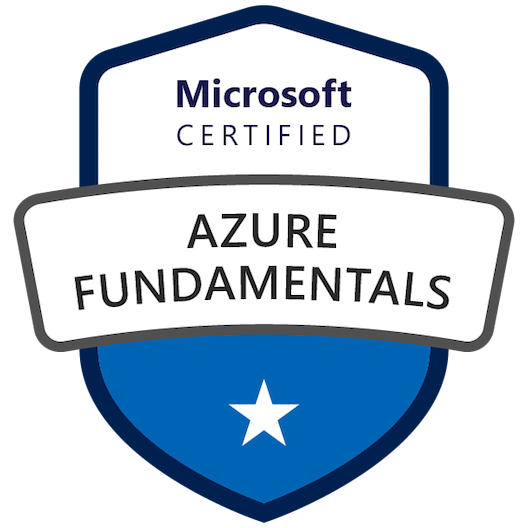
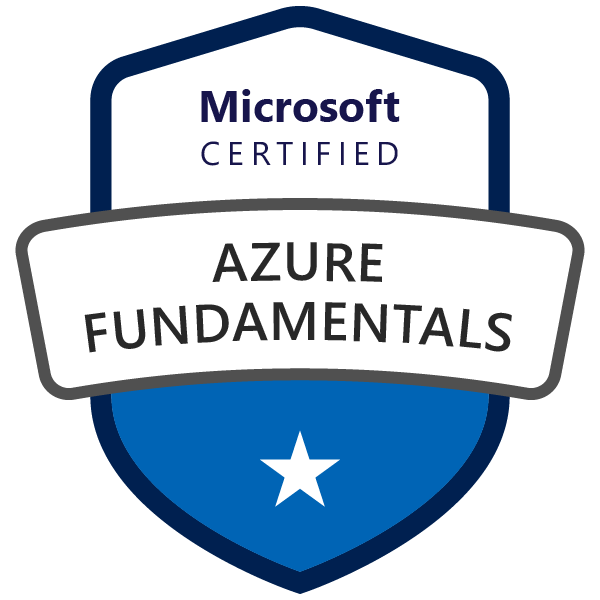
multiple
lock footer to bottom
add credly.html with iframe badge for future integration
replaced image with high resolution badge from credly

diff --git a/credly.html b/credly.html
@@ -1,0 +1,9 @@
+<style>
+iframe {
+    margin:auto;
+    display:block;
+}
+
+</style>
+
+<div class="credly-embed" data-iframe-width="300" data-iframe-height="300" data-share-badge-id="aaf8e8a6-8128-4e17-85e7-a60f7ee217e7" data-share-badge-host="https://www.credly.com"></div><script type="text/javascript" async src="//cdn.credly.com/assets/utilities/embed.js"></script>

diff --git a/stylesheet.css b/stylesheet.css
@@ -46,7 +46,7 @@ footer {
   text-align: center;
   position: absolute;
   width: 100%;
-  height: 2.5rem;
+  bottom: 0;
 }
 
 .links {
@@ -54,3 +54,4 @@ footer {
   font-style: oblique;
   text-align: center;
 }
+
